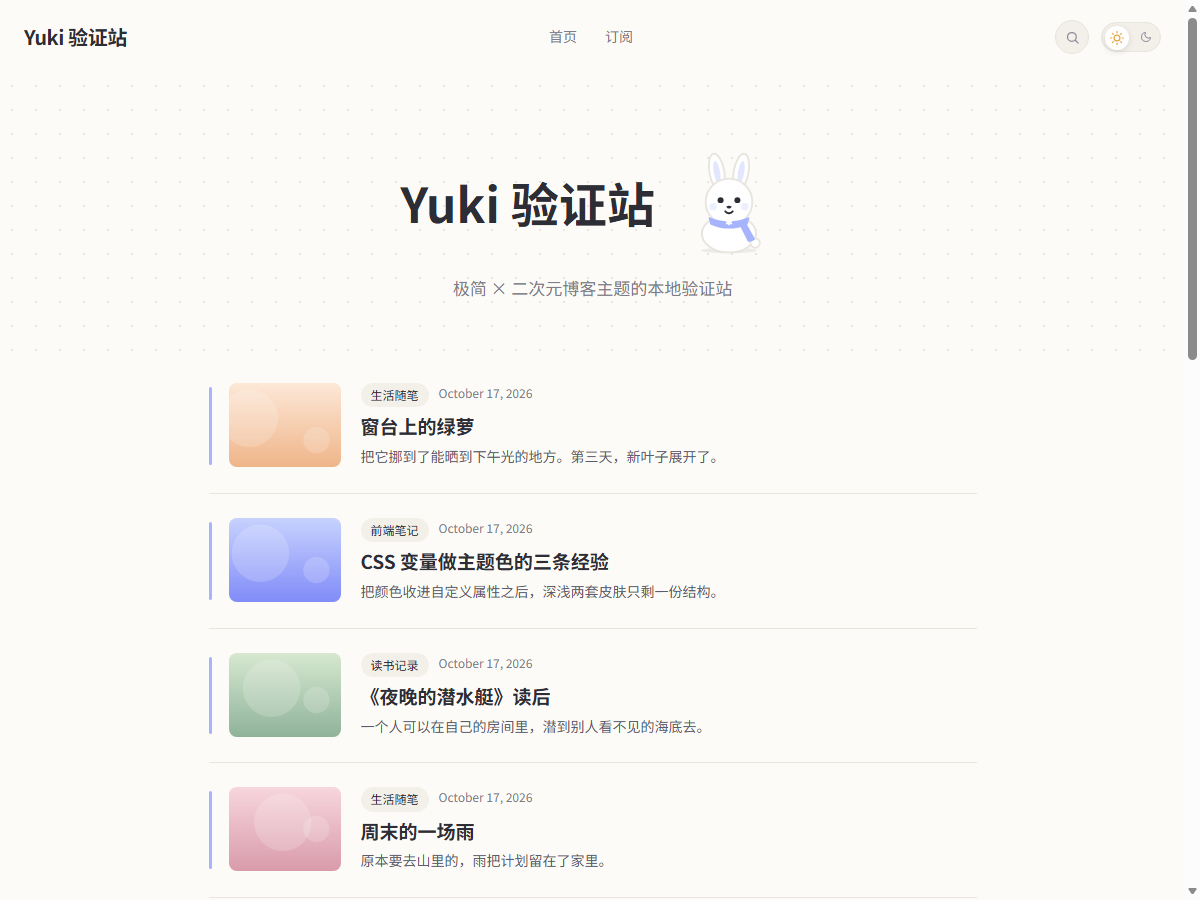
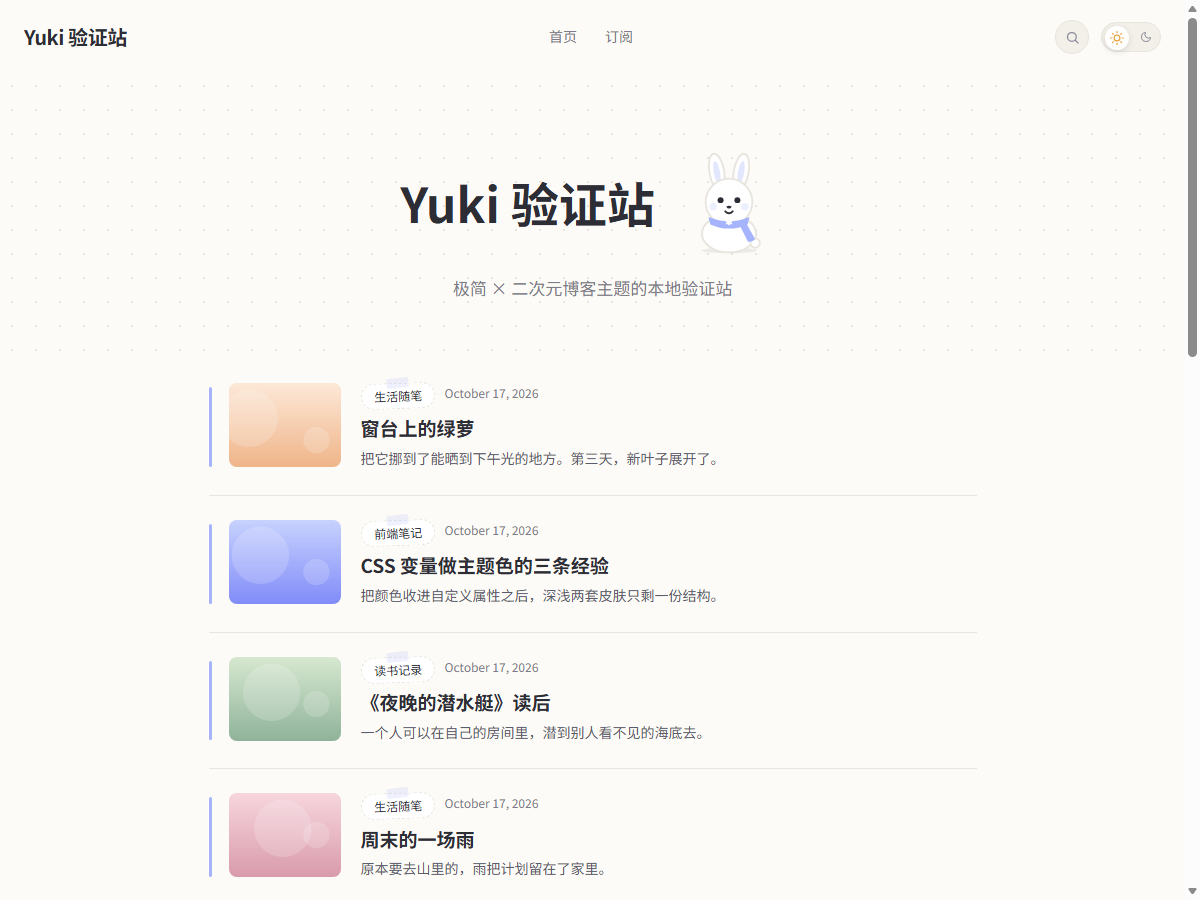
feat: 分类贴纸与空状态对话气泡
- 分类徽章：轻微旋转、虚线边、半透明胶带；hover 转正
- 空状态文案装进对话气泡，尖角朝上指向雪兔
- prefers-reduced-motion 下贴纸保持静止
- 徽章补 focus-visible；不新增颜色、不改列表版式
- 贴纸/气泡验收 24/24；首页截图重拍

diff --git a/style.css b/style.css
@@ -205,6 +205,34 @@ img { max-width: 100%; height: auto; display: block; }
 .yuki-empty-state .yuki-mascot { margin: 0 auto 16px; }
 .yuki-404 .yuki-mascot { margin: 0 auto 20px; }
 
+/* 空状态：对话气泡，尖角朝上指向雪兔 */
+.yuki-empty-state p {
+  position: relative;
+  display: inline-block;
+  max-width: 420px;
+  margin: 0 auto;
+  padding: 14px 18px;
+  border: 1px solid var(--yuki-border);
+  border-radius: var(--yuki-radius-lg);
+  background: var(--yuki-card);
+  color: var(--yuki-ink-2);
+  font-size: 15px;
+  line-height: 1.7;
+  text-align: left;
+}
+.yuki-empty-state p::before {
+  content: "";
+  position: absolute;
+  top: -7px;
+  left: 50%;
+  width: 12px;
+  height: 12px;
+  transform: translateX(-50%) rotate(45deg);
+  border-left: 1px solid var(--yuki-border);
+  border-top: 1px solid var(--yuki-border);
+  background: var(--yuki-card);
+}
+
 @media (max-width: 640px) {
   .yuki-mascot--lg { width: 88px; height: 88px; }
   .yuki-hero-title-row { gap: 12px; }
@@ -251,14 +279,32 @@ img { max-width: 100%; height: auto; display: block; }
 .yuki-post-meta { font-size: 12px; color: var(--yuki-muted-foreground); margin-bottom: 6px; display: flex; gap: 10px; flex-wrap: wrap; }
 .yuki-post-title { margin: 0 0 6px; font-size: 19px; font-weight: 600; line-height: 1.35; transition: color 180ms ease; }
 .yuki-post-excerpt { margin: 0; font-size: 14px; color: var(--yuki-ink-2); }
+/* 分类徽章：贴纸（轻微旋转 + 虚线边 + 一小段半透明胶带） */
 .yuki-cat-badge {
+  position: relative;
   display: inline-block;
-  padding: 2px 10px;
+  padding: 2px 12px;
+  border: 1px dashed var(--yuki-border);
   border-radius: var(--yuki-radius-pill);
-  background: var(--yuki-muted);
+  background: var(--yuki-card);
   color: var(--yuki-foreground);
   font-size: 12px;
+  transform: rotate(-2deg);
+  transition: transform 180ms ease;
 }
+.yuki-cat-badge::before {
+  content: "";
+  position: absolute;
+  top: -6px;
+  left: 50%;
+  width: 22px;
+  height: 10px;
+  transform: translateX(-50%) rotate(-4deg);
+  border-radius: 2px;
+  background: var(--yuki-primary);
+  opacity: .18;
+}
+.yuki-cat-badge:hover { transform: rotate(0); }
 
 /* 分页 */
 .yuki-pagination { display: flex; justify-content: center; gap: 8px; padding: 40px 0 64px; }
@@ -772,6 +818,7 @@ img { max-width: 100%; height: auto; display: block; }
 .yuki-post-item a:focus-visible,
 .yuki-post-nav a:focus-visible,
 .yuki-related-item a:focus-visible,
+.yuki-cat-badge:focus-visible,
 .yuki-tag:focus-visible {
   outline: 2px solid var(--yuki-ring);
   outline-offset: 2px;
@@ -972,6 +1019,8 @@ body.yuki-lightbox-locked { overflow: hidden; }
   .yuki-post-item:hover .yuki-post-thumb { transform: none; }
   .yuki-post-nav a { transition: border-color 180ms ease; }
   .yuki-post-nav a:hover { transform: none; }
+  .yuki-cat-badge { transition: none; }
+  .yuki-cat-badge:hover { transform: rotate(-2deg); }
 }
 
 /* 窄屏收紧导航 */

diff --git a/.scratch/anime-flavor/issues/02-stickers.md b/.scratch/anime-flavor/issues/02-stickers.md
@@ -1,0 +1,53 @@
+# 02: 分类贴纸与对话气泡
+
+**What to build:** 把文章列表里的分类徽章做成贴纸（轻微旋转 + 虚线边 + 一小段半透明胶带）；
+空状态的文案装进对话气泡，气泡尖角朝上指向雪兔。
+
+**边界。** 只动徽章与空状态两处；不改文章列表版式、不改正文、不新增颜色。贴纸的胶带用
+`--yuki-primary` 加透明度，气泡用 `--yuki-card` / `--yuki-border` / `--yuki-ink-2`。
+
+**动效。** 贴纸 hover 时轻轻转正；`prefers-reduced-motion` 下不转、保持贴纸角度。
+
+**Blocked by:** 01（雪兔已就位，气泡尖角指向它）
+
+**Status:** ready-for-agent
+
+实现与验收已完成（起点 `77d211e`）。
+
+- [x] 分类徽章是贴纸：轻微旋转、虚线边、半透明胶带
+- [x] 贴纸 hover 轻轻转正；reduced motion 下保持静止
+- [x] 空状态文案在对话气泡里，气泡尖角朝上
+- [x] 气泡在浅色/深色下都用现有 token
+- [x] 640px 下贴纸与气泡不造成横向滚动
+- [x] 分类徽章补上 `focus-visible` 焦点环
+- [x] 不改正文、不改列表版式、不新增颜色
+- [x] 真浏览器断言覆盖贴纸 transform/虚线边/胶带与气泡边框/尖角
+- [x] 首页截图重拍
+
+## Comments
+
+### 实现
+
+- **贴纸**：`.yuki-cat-badge` 改为 `rotate(-2deg)`、`1px dashed var(--yuki-border)`、
+  `var(--yuki-card)` 底；`::before` 是一小段 `var(--yuki-primary)`、`opacity: .18` 的胶带。
+  hover 时转正（`rotate(0)`）；`prefers-reduced-motion` 下不转、保持贴纸角度。
+- **气泡**：`.yuki-empty-state p` 变成 `var(--yuki-card)` 底、`var(--yuki-border)` 实线边、
+  `--yuki-radius-lg` 圆角的对话气泡；`::before` 是朝上的尖角，正好指向雪兔。文案色用
+  `--yuki-ink-2`，与正文同一层。
+- **焦点**：分类徽章是链接，补进统一焦点环那一条。
+- **范围**：只改徽章与空状态两处；列表版式、正文、文案都没有动，也没有新增颜色。
+
+### 验收
+
+新增 `tests/bin/verify-stickers.mjs`（复用 `mascot-fixtures.php` 的空分类），**24/24**。
+真浏览器量到：贴纸 `matrix(0.999391, -0.0348995, …)`、`border-style: dashed`、胶带
+`content: ""` / `opacity: .18`；hover 后变回单位矩阵；reduced motion 下 hover 仍是原角度；
+气泡 `solid` 边、16px 圆角、卡片底色、尖角存在；640px 下首页与空归档都不横向滚动。
+
+首页截图重拍后带贴纸；回归：雪兔 28/28、动效 19/19。
+
+### 已知边界
+
+- 没有新文案，`yuki.pot` 不动。
+- 贴纸只作用于分类徽章；标签、分页与别处的 pill 不改。
+- 气泡只用于三个空状态；404 保持原有布局。

diff --git a/.scratch/roadmap/map.md b/.scratch/roadmap/map.md
@@ -63,7 +63,7 @@ Type: map
 见 `.scratch/anime-flavor/spec.md`，四批推进：
 
 1. **雪兔 + 微文案**：已实现（`issues/01-mascot.md`）。
-2. 贴纸/气泡：分类徽章变贴纸、空状态用对话气泡。
+2. **贴纸/气泡**：已实现（`issues/02-stickers.md`）——分类徽章变贴纸，空状态用对话气泡。
 3. 季节点缀色：按月份自动，只用于装饰。
 4. hero 动效：少量纯 CSS 樱瓣/星光，reduced-motion 全停。
 
@@ -84,7 +84,7 @@ Type: map
   表单 POST + 重定向；失败保留正文。实现与验收已完成。
 - 2026-10-17：`v1.2.0` 发布，A–D 四批一起交付（864/864 回归，Theme Check 计数不变）。
 - 2026-10-17：二次元成分分四批；第一批**雪兔 + 微文案**完成（hero/404/空状态），
-  第二至四批（贴纸/气泡、季节色、hero 动效）待做。
+  第二批**贴纸/气泡**完成；第三、四批（季节色、hero 动效）待做。
 - 测试基建另有一张 `comment-submit-ajax/issues/04-browser-retry-flake.md`，不挡路线图。
 
 ## Fog
